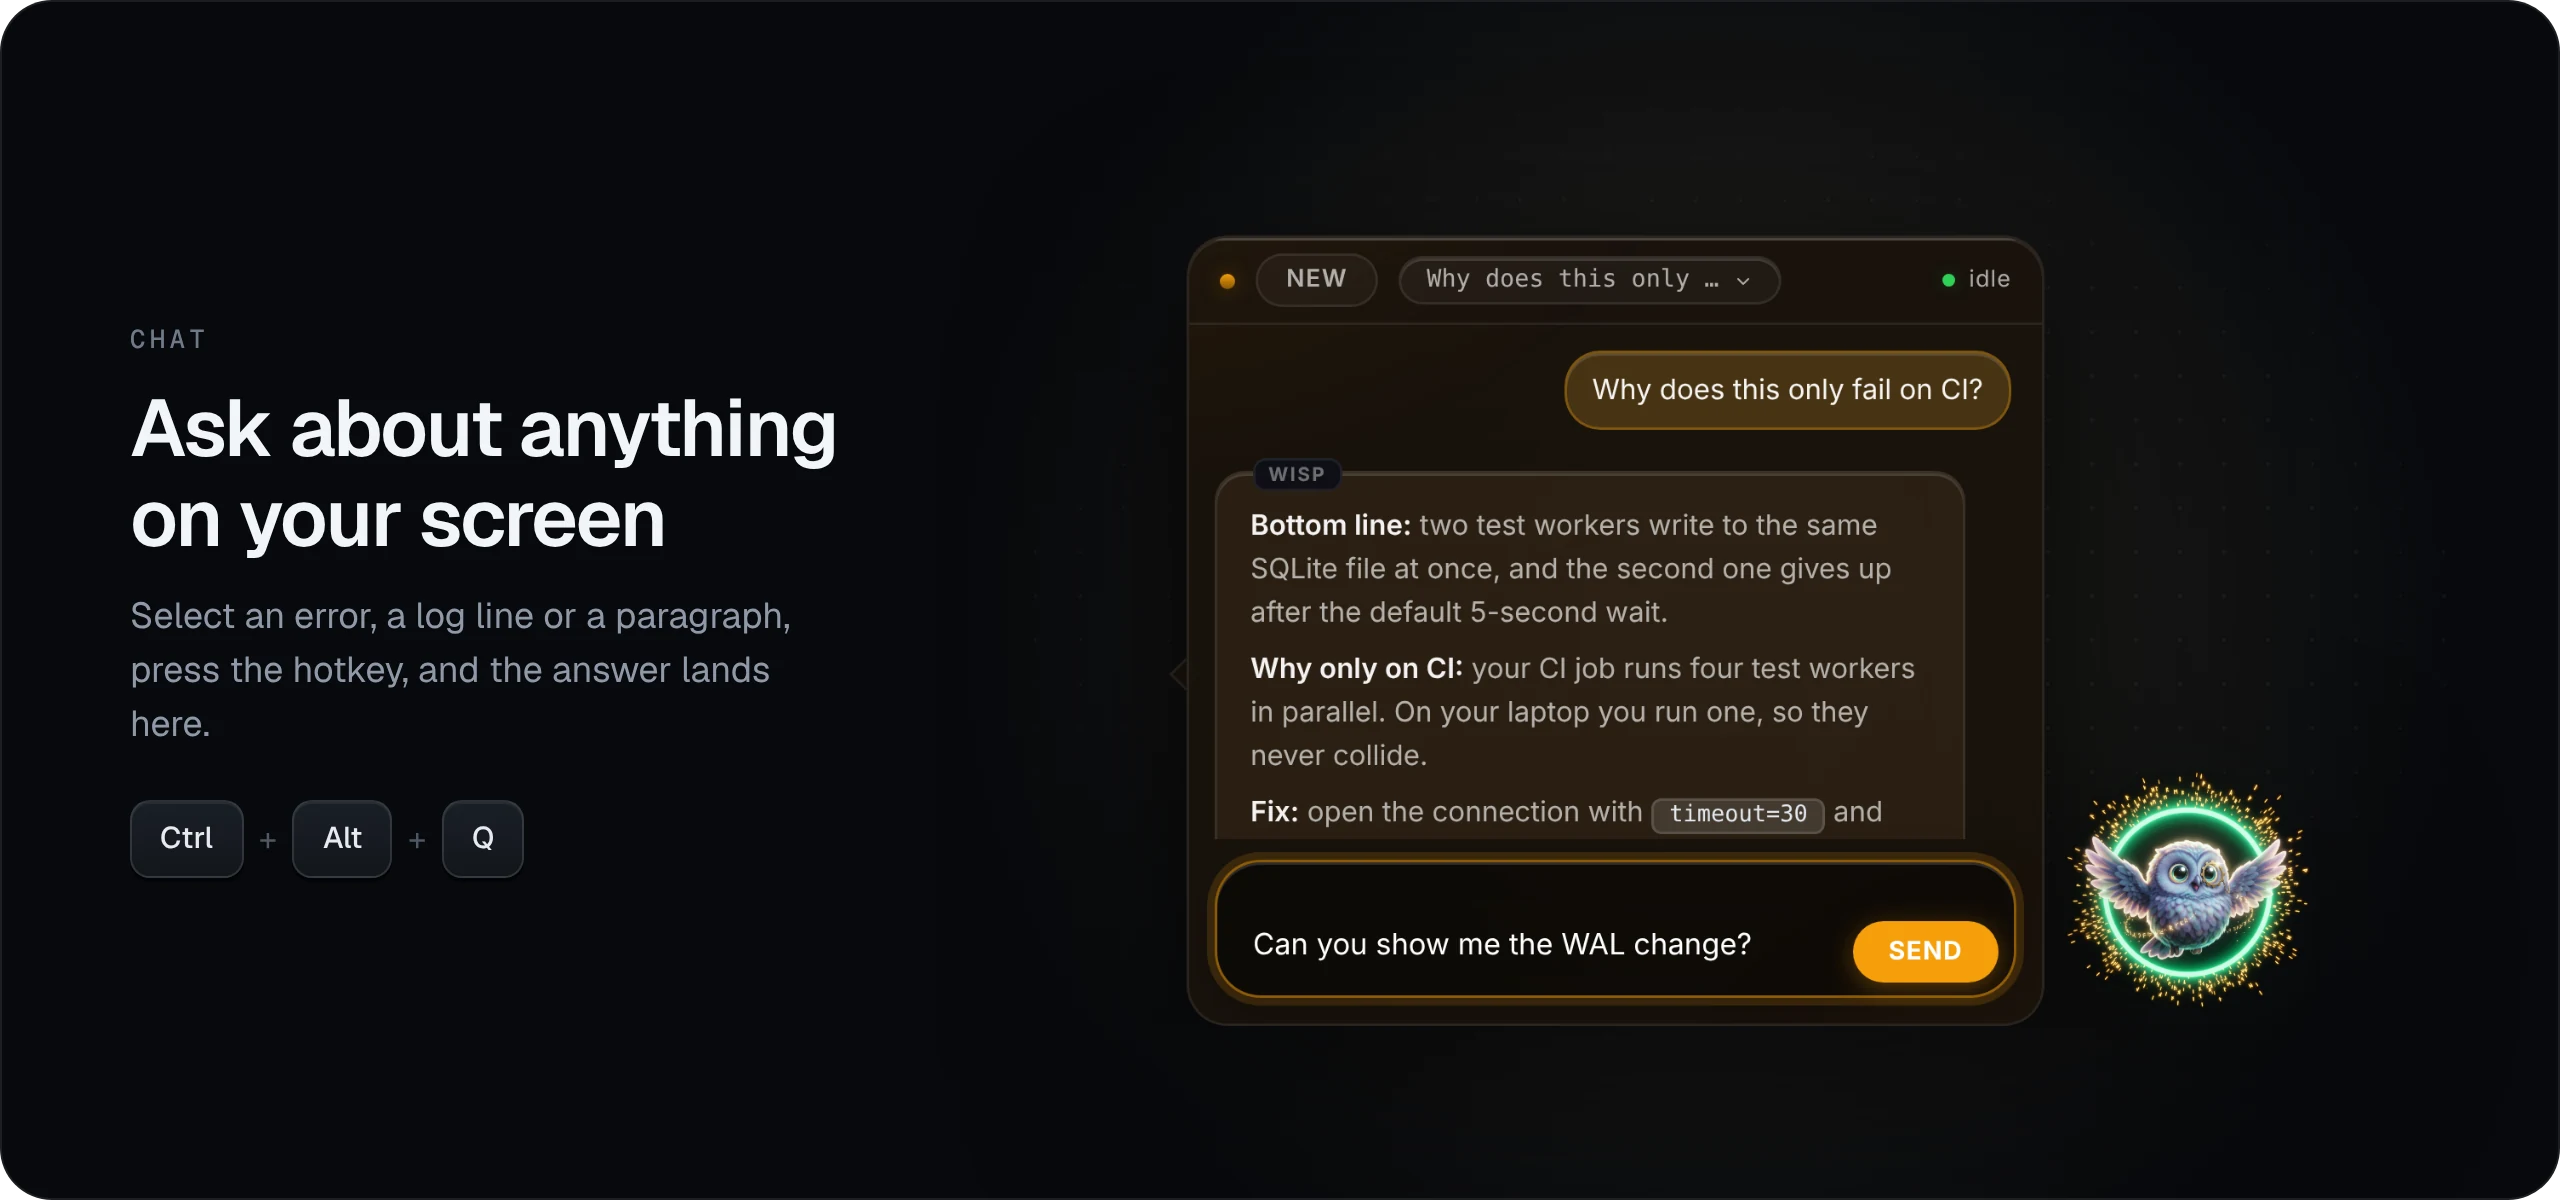
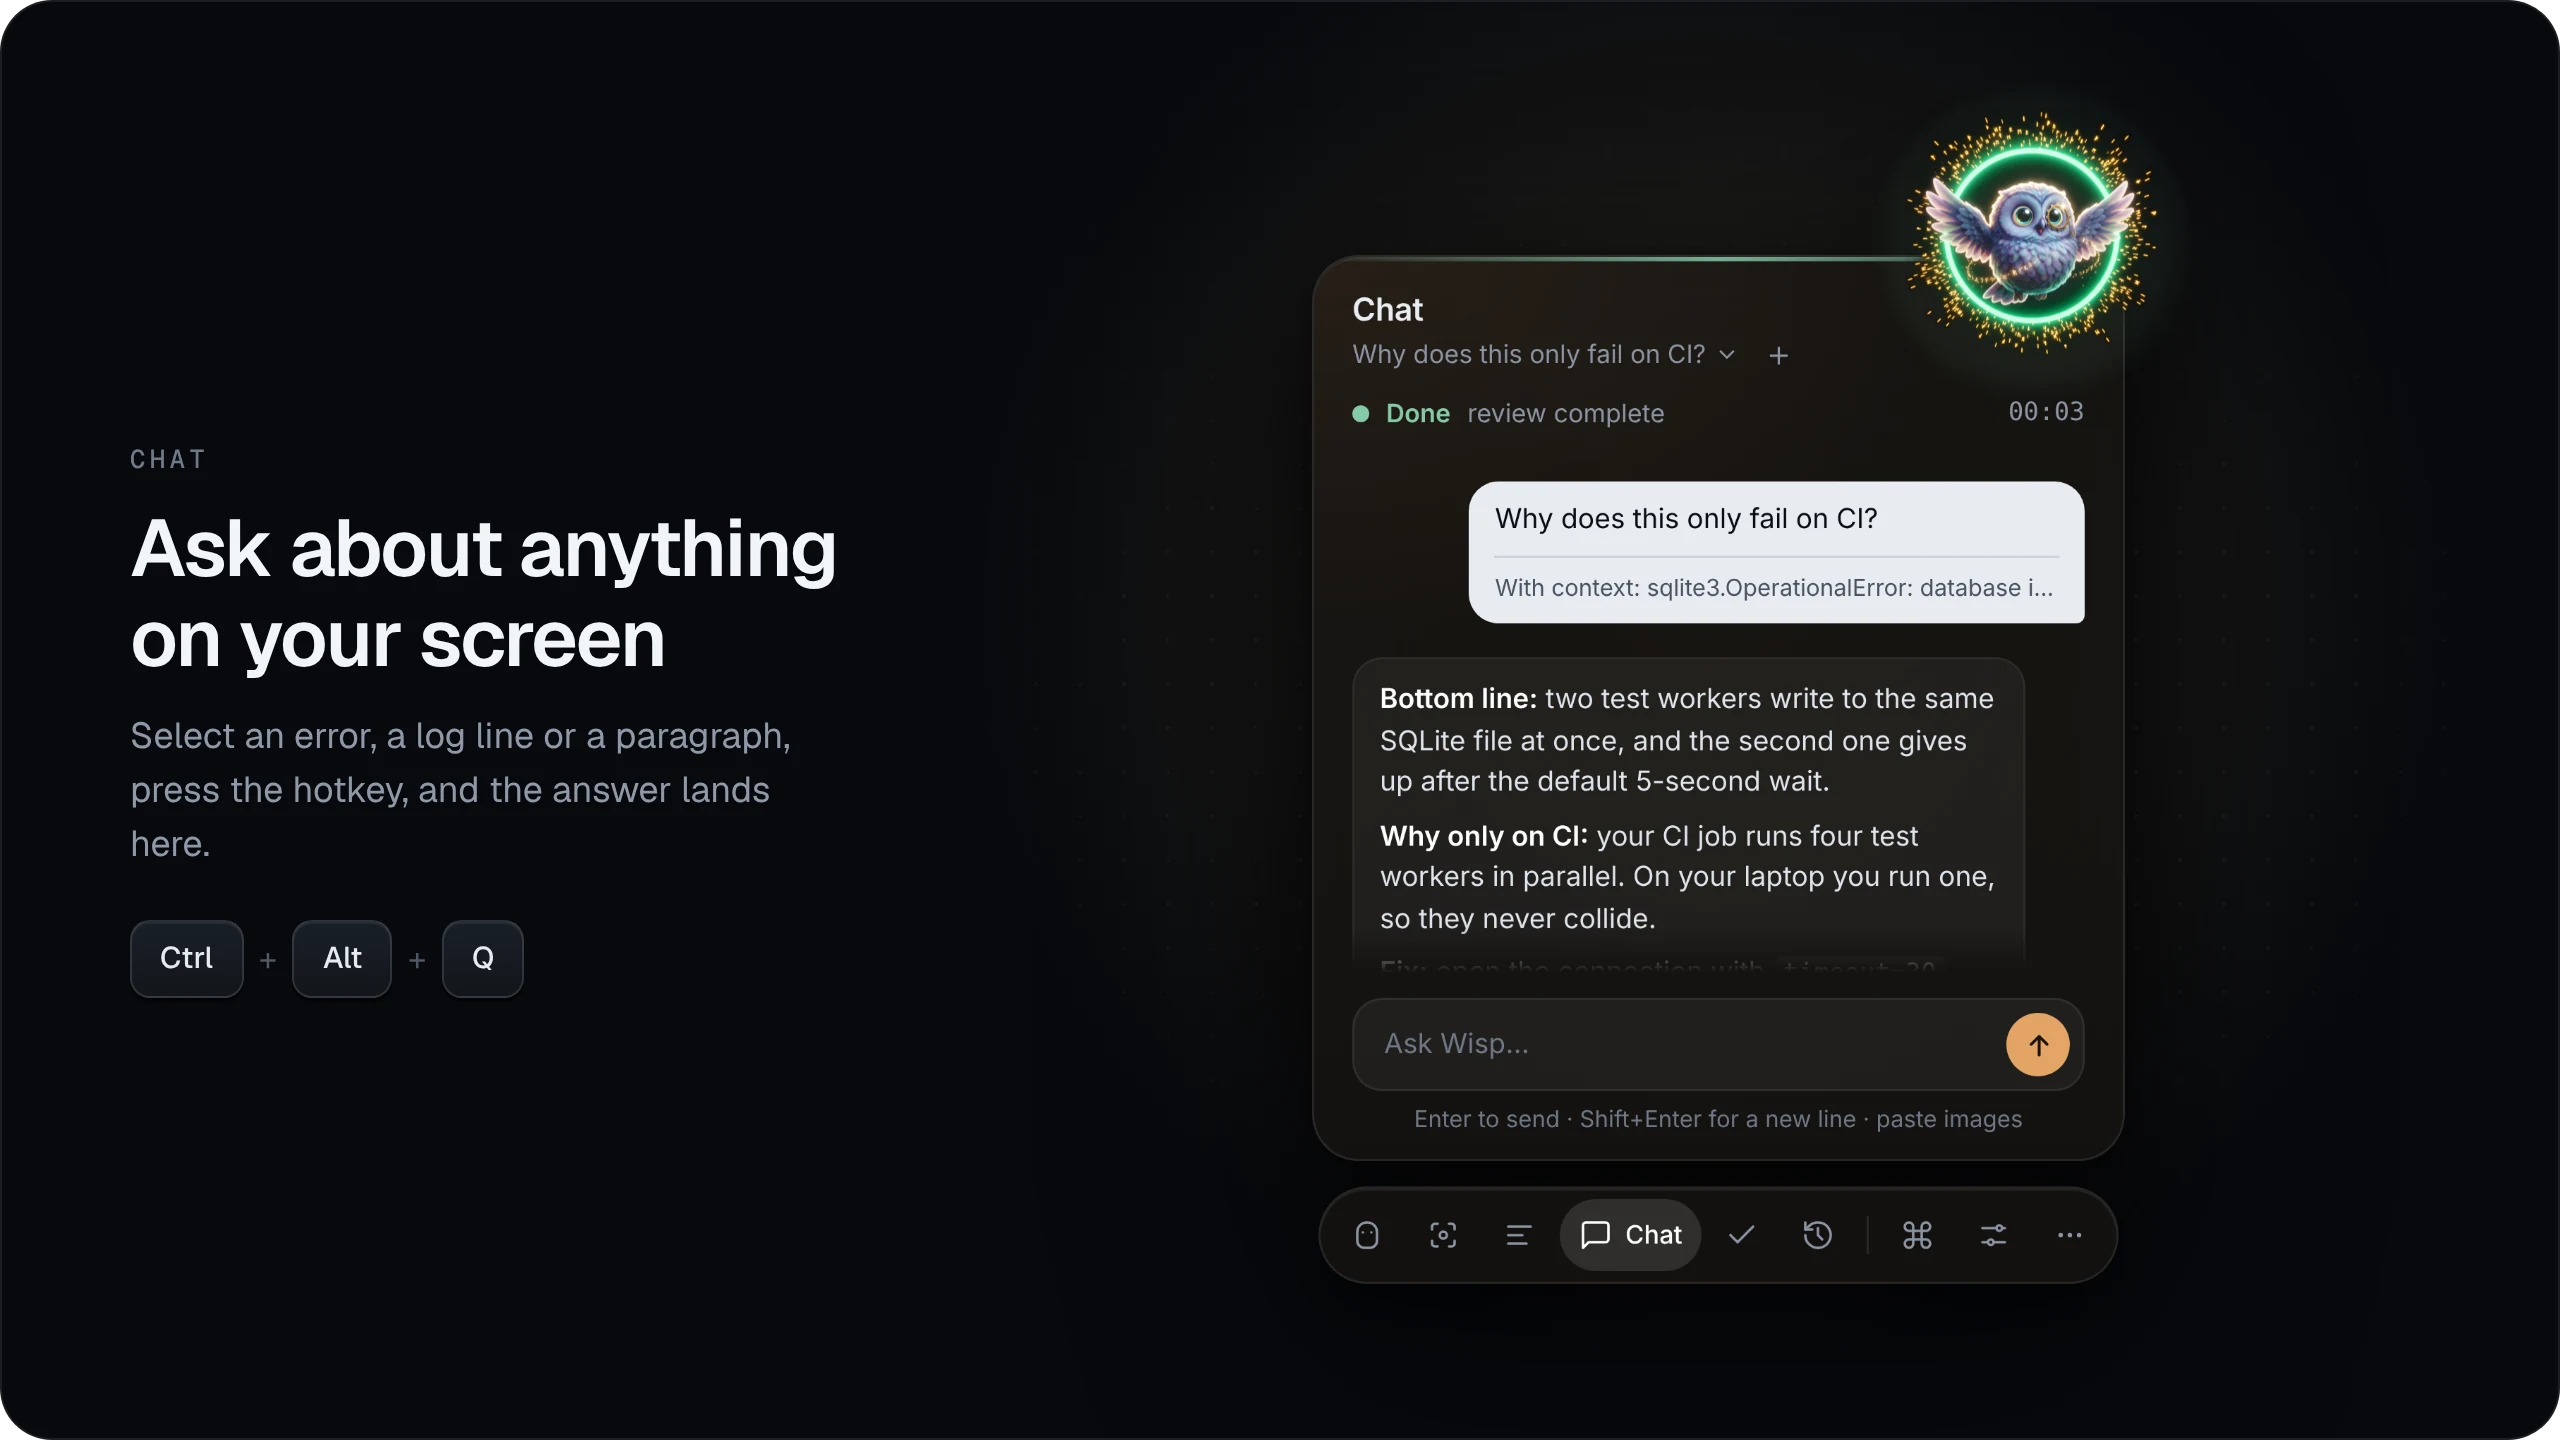
README: re-capture the visuals from the redesigned widget
Claude-Session: https://claude.ai/code/session_01ATREQvN2oQVuMVg1TNMvWo

diff --git a/README.md b/README.md
@@ -69,15 +69,16 @@ reading, writing, stuck, or finished.
 
 ## A closer look
 
-The widget has six views, and the tabs across its top switch between them.
-On the main **Wisp** view, the same six float around the owl as buttons.
+The widget has six views. Switch between them from the dock under the panel,
+or press <kbd>Ctrl</kbd> + <kbd>K</kbd> to search every action by name.
 
 <p align="center">
-  <img src="docs/assets/wisp-stream.webp" width="100%" alt="Stream view: the reviewer's findings appear line by line with the files and code it refers to.">
+  <img src="docs/assets/wisp-stream.webp" width="100%" alt="Stream view: the task pinned at the top, filters for thoughts, tools and output, and each step of the review as a card.">
 </p>
 
 **Stream** is the full, live record of the review: what the reviewer thought,
-which files it opened, which commands it ran and what came back. **Focus**
+which files it opened, which commands it ran and what came back. Filter it
+down to thoughts, tool calls or the final answer, and copy any step. **Focus**
 is a calmer version that only shows the latest thoughts.
 
 <p align="center">
@@ -94,19 +95,20 @@ box, and every conversation is saved so follow-up questions keep their
 context. The capture hotkeys work on Windows.
 
 <p align="center">
-  <img src="docs/assets/wisp-verdict.webp" width="100%" alt="Verdict view: counters for thoughts, tools, retries and time, a PASS badge, and buttons to replay the run or copy its folder.">
+  <img src="docs/assets/wisp-verdict.webp" width="100%" alt="Verdict view: a Review complete banner, counters for thoughts, tool calls and retries, a summary of the answer, and buttons to ask a follow-up, copy the answer or replay the run.">
 </p>
 
 **Verdict** sums up the last run: whether the review finished, how long it
-took, how many thoughts and tool calls it made, and whether anything had to
-be retried. **Replay run** plays the whole thing back step by step.
+took, how many thoughts and tool calls it made, and a summary of the answer.
+**Ask a follow-up** opens the chat with the review as context, and **Replay**
+plays the whole run back step by step.
 
 <p align="center">
-  <img src="docs/assets/wisp-history.webp" width="100%" alt="History view: saved conversations, which can be pinned, and past runs, which can be replayed.">
+  <img src="docs/assets/wisp-history.webp" width="100%" alt="History view: a search field, saved conversations that can be pinned or deleted, and past reviews labelled by what was asked.">
 </p>
 
-**History** keeps your past conversations and runs. Pin the ones you care
-about. Reviews started from any project on your machine show up here,
+**History** keeps your past conversations and reviews, each labelled by what
+was asked. Search them, pin the ones you care about, or delete the rest. Reviews started from any project on your machine show up here,
 labelled by project, so it doesn't matter where your assistant was working.
 
 ## How it works

diff --git a/CHANGELOG.md b/CHANGELOG.md
@@ -35,6 +35,16 @@ independently; the Electron shell versions with the viewer.
   NaN bounds.
 
 ### Changed
+- Widget redesigned ("Glass Dock"): one frosted panel with the owl perched on
+  its corner and a floating dock for views, the command palette, settings and
+  window controls; plain-language status labels; a shared motion system
+  (view transitions, entry animations, verdict count-up) that honors the
+  Full / Gentle / Off setting and reduced motion; settings shown inside the
+  panel.
+- New widget actions: Ctrl+K command palette; stream filters, per-entry copy
+  and jump-to-latest; verdict summary with Ask a follow-up and Copy answer;
+  chat starter prompts, copy and retry; history search, pin and delete.
+- `/api/runs` reports each run's task; chat threads can be deleted.
 - `antigravity_bridge` is split into `antigravity_containment` and
   `antigravity_aggregate`; `antigravity_viewer` into `viewer_shell` and
   `viewer_platform`. Public names are re-exported.
